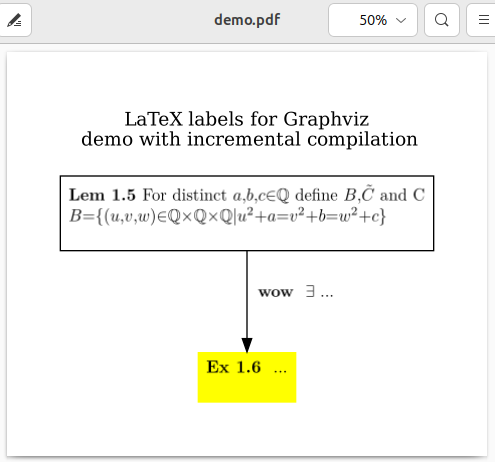
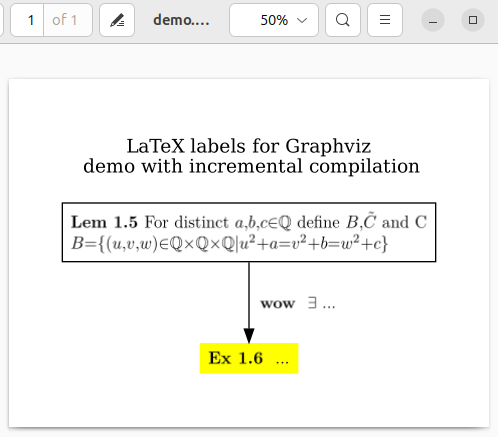
improve demo.dot with height=0, learned from fermat_Neq4.dot work

diff --git a/README.md b/README.md
@@ -37,13 +37,14 @@ When using the `comment` attribute for LaTeX rendering, the following strict rul
 ...
     lem_1_5 [comment="
 \textbf{Lem 1.5 }For distinct $a,b,c\in \Q$ define $B, \tilde{C}$ and C\\
-$B=\{(u,v,w)\in \Q\times\Q\times\Q\vert u^2+a=v^2+b=w^2+c\}$\\"]
+$B=\{(u,v,w)\in \Q\times\Q\times\Q\vert u^2+a=v^2+b=w^2+c\}$
+"]
     ex_1_6 [shape=plaintext style=filled color=yellow comment="
-\textbf{Ex 1.6 } ...\\
+\textbf{Ex 1.6 } ...
 "]
 
     lem_1_5 -> ex_1_6 [comment="
-\textbf{wow } $\exists\ \dots$\\
+\textbf{wow } $\exists\ \dots$
 "]
 
 }
